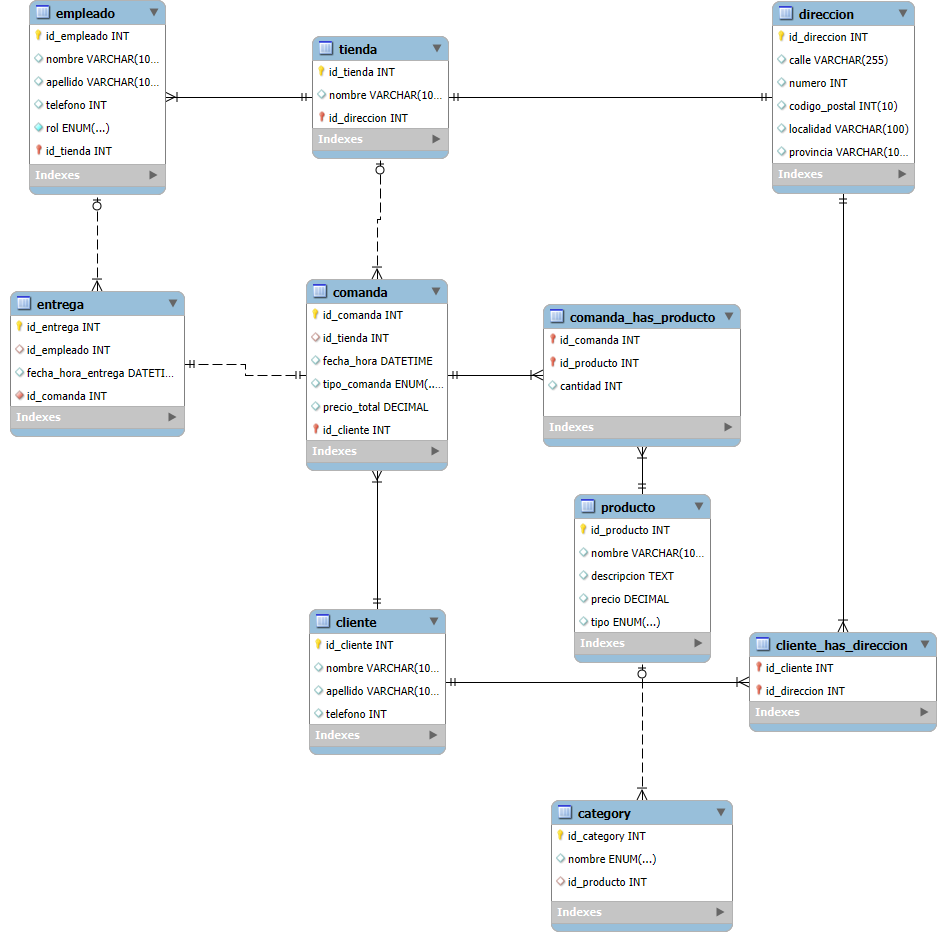
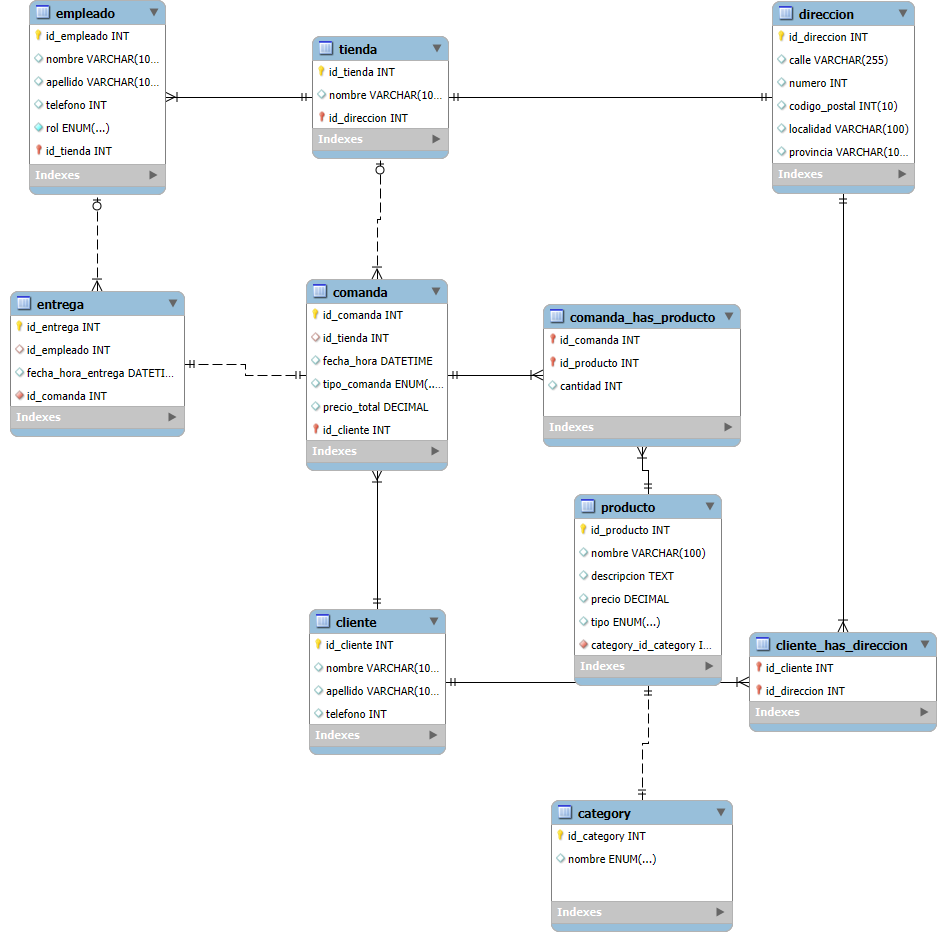
modificación diseño pizzeria

diff --git a/README.md b/README.md
@@ -1,6 +1,3 @@
 # Sprint_2
 Ejercicios sobre base de datos
 
-
-:333
-
